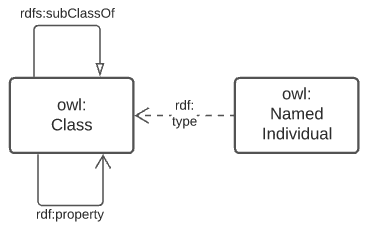
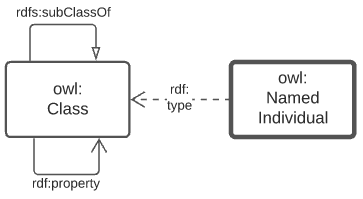
Deploying to gh-pages from  @ 5bbfaa98659f6f4108f445923ea16e4d9645a816 🚀

Changed region(s): [[0.0, 0.0302, 1.0, 0.9648], [0.1212, 0.5126, 0.2727, 0.603], [0.1515, 0.4221, 0.2424, 0.4824]]

diff --git a/supermodel.html b/supermodel.html
@@ -696,7 +696,10 @@ body.book #toc,body.book #preamble,body.book h1.sect0,body.book .sect1>h2{page-b
 <div class="sect2">
 <h3 id="_conventions">2.4. Conventions</h3>
 <div class="paragraph">
-<p>All code snippets in this document, used to show formal and machine-readable versions of concepts, are expressed using the Turtl RDF syntax <a href="#TTL">[TTL]</a>.</p>
+<p>All model diagrams use elements introduced in <a href="#fig-level0-key">Figure 1</a>. These elements are defined in the RDF, RDFS and OWL ontologies, see <a href="#OWL">[OWL]</a> for mode details.</p>
+</div>
+<div class="paragraph">
+<p>All code snippets in this document, used to show formal and machine-readable versions of concepts, are expressed using the Turtle RDF syntax <a href="#TTL">[TTL]</a>.</p>
 </div>
 </div>
 </div>
@@ -736,24 +739,89 @@ body.book #toc,body.book #preamble,body.book h1.sect0,body.book .sect1>h2{page-b
 <div class="sect2">
 <h3 id="_level_0_model_background">4.1. Level 0: Model Background</h3>
 <div class="paragraph">
-<p>This view of the model is a backgrounding one which describes the underpinning model mecahnics that it uses. The object modelling used is based on the <em>Web Ontology Language</em> <a href="#OWL">[OWL]</a> and its own underlying use of RDF &amp; RDFS <sup class="footnote">[<a id="_footnoteref_1" class="footnote" href="#_footnotedef_1" title="View footnote.">1</a>]</sup>. The <em>Provenance Ontology</em> <a href="#PROV">[PROV]</a> is used to model relations between things as a result of real-world processes.</p>
+<p>This view of the model is a backgrounding one which describes the underpinning model mecahnics that it uses. The object modelling used is based on the <em>Web Ontology Language</em> <a href="#OWL">[OWL]</a> and its own underlying use of RDF &amp; RDFS <sup class="footnote">[<a id="_footnoteref_1" class="footnote" href="#_footnotedef_1" title="View footnote.">1</a>]</sup>. The <em>Provenance Ontology</em> <a href="#PROV">[PROV]</a> is used to model real-world causal dependencies - provenance.</p>
 </div>
 <div class="sect3">
-<h4 id="_objects">4.1.1. Objects</h4>
+<h4 id="_diagram_key">4.1.1. Diagram Key</h4>
+<div class="paragraph">
+<p>The figure below is a key for the elements in all of the model diagrams in this document.</p>
+</div>
+<div id="fig-level0-key" class="imageblock">
+<div class="content">
+<img src="https://surroundaustralia.github.io/ga-supermodel/img/key.png" alt="key">
+</div>
+<div class="title">Figure 1. Diagram elements key</div>
+</div>
+</div>
+<div class="sect3">
+<h4 id="_object_modelling">4.1.2. Object Modelling</h4>
+<div class="paragraph">
+<p>The elements from the above subsection are shown in relation to one another in the figure below.</p>
+</div>
 <div id="fig-level0-owl" class="imageblock">
 <div class="content">
 <img src="https://surroundaustralia.github.io/ga-supermodel/img/level0-owl.png" alt="level0 owl">
 </div>
-<div class="title">Figure 1. OWL objects and their relations</div>
+<div class="title">Figure 2. OWL objects and their relations</div>
+</div>
+<div class="paragraph">
+<p>The elements shown above are identified with prefixed IRIs that correspond to entries in the <a href="#tbl-prefixes">Namespace Table</a>. A short explanation of the diagram key elements is:</p>
+</div>
+<div class="ulist">
+<ul>
+<li>
+<p><code>owl:Class</code> - represents any conceptual class of objects. Classes are expected to contain individuals - instances of the class - and the class, as a whole, may have realtions to other classes</p>
+</li>
+<li>
+<p><code>owl:NamedIndividual</code> - an individual of an <code>owl:class</code>. For example, for the class <em>ships</em>, an individual might be <em>Titanic</em></p>
+</li>
+<li>
+<p><code>rdf:property</code> - a relationship between classes, individuals, or any objects and Literals</p>
+</li>
+<li>
+<p><code>rdfs:subClassOf</code> -  an <code>rdf:property</code> indicating that the domain (from object) is a subclass of the range (to objects). An example is the class <em>student</em> which is a subclass of <em>person</em>: all <em>students</em> are clearly <em>persons</em> but not <em>vice versa</em></p>
+</li>
+<li>
+<p><code>rdf:type</code> - the property that related an <code>owl:NamedIndividual</code> to the <code>owl:Class</code> that it&#8217;s a member of</p>
+</li>
+<li>
+<p><code>Literal</code> - a simple literal data property, e.g. the string "Nicholas", or the number 42. Specific literal types are usually indicated when used</p>
+</li>
+</ul>
+</div>
+<div class="paragraph">
+<p>The remaining diagrams in this document use extensions to this basic model, for example <a href="#fig-level0-prov">Figure 3</a> uses colour-coded specialised forms of <code>owl:Class</code> (subclasses of it) and the relations in <a href="#fig-central-classes">Figure 5</a> are specialised forms of <code>rdf:property</code>.</p>
 </div>
 </div>
 <div class="sect3">
-<h4 id="_processes">4.1.2. Processes</h4>
+<h4 id="_provenance">4.1.3. Provenance</h4>
+<div class="paragraph">
+<p>General provenance/lineage information about anything - a rock sample, a dataset, a term in a vocabulary etc. - is described using the <em>Provenance Ontology</em> <a href="#PROV">[PROV]</a> which views <em>everything</em> in the world as being of one or more types in <a href="#fig-level0-prov">Figure 3</a>.</p>
+</div>
 <div id="fig-level0-prov" class="imageblock">
 <div class="content">
 <img src="https://surroundaustralia.github.io/ga-supermodel/img/level0-prov.png" alt="level0 prov">
 </div>
-<div class="title">Figure 2. PROV classes and thier main relations</div>
+<div class="title">Figure 3. PROV main classes and main relations</div>
+</div>
+<div class="paragraph">
+<p>According to PROV, all things are either a:</p>
+</div>
+<div class="ulist">
+<ul>
+<li>
+<p><code>prov:Entity</code> - a physical, digital, conceptual, or other kind of thing with some fixed aspects</p>
+</li>
+<li>
+<p><code>prov:Agent</code> - something that bears some form of responsibility for an activity taking place, for the existence of an entity, or for another agent&#8217;s activity</p>
+</li>
+<li>
+<p><code>prov:Activity</code> - something that occurs over a period of time and acts upon or with entities</p>
+</li>
+</ul>
+</div>
+<div class="paragraph">
+<p>Entities are commonly created by Agents through Activities and all of the people and organisations related to objects in the model are Agents, e.g. the creators of a dataset.</p>
 </div>
 </div>
 </div>
@@ -788,7 +856,7 @@ body.book #toc,body.book #preamble,body.book h1.sect0,body.book .sect1>h2{page-b
 <div class="content">
 <img src="https://surroundaustralia.github.io/ga-supermodel/img/data-domains.png" alt="data domains">
 </div>
-<div class="title">Figure 3. Top-level view of the GA Supermodel showing Data Domains</div>
+<div class="title">Figure 4. Top-level view of the GA Supermodel showing Data Domains</div>
 </div>
 <div class="paragraph">
 <p>These Data Domains are defined formally in a simple SKOS vocabulary within this model&#8217;s set of machine-readable resources. The vocabulary may be access ddirectly at <a href="http://pid.geoscience.gov.au/def/sm/data-domains" class="bare">http://pid.geoscience.gov.au/def/sm/data-domains</a>.</p>
@@ -827,7 +895,7 @@ This supermodel&#8217;s origins are in GA&#8217;s geology and spatial data work 
 <div class="content">
 <img src="https://surroundaustralia.github.io/ga-supermodel/img/central-classes.png" alt="central classes">
 </div>
-<div class="title">Figure 4. Next level view of the GA Supermodel showing Central Classes</div>
+<div class="title">Figure 5. Next level view of the GA Supermodel showing Central Classes</div>
 </div>
 <div class="paragraph">
 <p>The Central Classes of each of the Data Domains are well-used classes from well-known models. For example, the Central Class of <em>Organisation &amp; People</em> is <a href="#PROV">[PROV]</a>'s <code>Agent</code> class which is one of the three main classes of thing in PROV and used every time PROV is used to represent causal agents. PROV is used extensively to indicate how things - data, resources, systems - come to be.</p>
@@ -948,7 +1016,7 @@ This supermodel&#8217;s origins are in GA&#8217;s geology and spatial data work 
 <div class="content">
 <img src="https://surroundaustralia.github.io/ga-supermodel/img/domain-classes-data-cataloguing.png" alt="domain classes data cataloguing">
 </div>
-<div class="title">Figure 5. Domain Main Classes for Data Cataloguing</div>
+<div class="title">Figure 6. Domain Main Classes for Data Cataloguing</div>
 </div>
 <div class="paragraph">
 <p>This Data Domain&#8217;s main classes are essentially the DCAT2 data model <a href="#DCAT">[DCAT]</a> with a slight profiling: <code>dcterms:hasPart</code> should be used to indicate elements within catalogues (e.g. <code>dcat:Dataset</code> and other things within a <code>dcat:Catalog</code>) rather than the specialised properties of <code>dcat:dataset</code> because GA expects to catalogue many types of things and the type of the thing should be given by the thing, not the catalogue property used to indicate it.</p>
@@ -963,7 +1031,7 @@ This supermodel&#8217;s origins are in GA&#8217;s geology and spatial data work 
 <div class="content">
 <img src="https://surroundaustralia.github.io/ga-supermodel/img/domain-classes-organisations-people.png" alt="domain classes organisations people">
 </div>
-<div class="title">Figure 6. Domain Main Classes for Organisations &amp; People</div>
+<div class="title">Figure 7. Domain Main Classes for Organisations &amp; People</div>
 </div>
 <div class="paragraph">
 <p>This Data Domain&#8217;s main classes are centered on <a href="#PROV">[PROV]</a>'s <code>prof:Agent</code> class but specific types of agent - <em>person</em> &amp; <em>organisation</em> are defined using schema.org <a href="#SDO">[SDO]</a>, the general-purpose ontology provisioned by Google, Microsoft &amp; Yahoo for the description of web page data.</p>
@@ -981,7 +1049,7 @@ This supermodel&#8217;s origins are in GA&#8217;s geology and spatial data work 
 <div class="content">
 <img src="https://surroundaustralia.github.io/ga-supermodel/img/domain-classes-sampling.png" alt="domain classes sampling">
 </div>
-<div class="title">Figure 7. Domain Main Classes for Sampling</div>
+<div class="title">Figure 8. Domain Main Classes for Sampling</div>
 </div>
 <div class="paragraph">
 <p>This Data Domain&#8217;s main classes are taken directly from the <em>Sensor, Observation, Sample, and Actuator Ontology</em> (SOSA) which is part of the <em>Semanic Sensor Networks Ontology</em> <a href="#SSN">[SSN]</a>.</p>
@@ -1018,7 +1086,7 @@ This supermodel&#8217;s origins are in GA&#8217;s geology and spatial data work 
 <div class="content">
 <img src="https://surroundaustralia.github.io/ga-supermodel/img/domain-classes-spatiality.png" alt="domain classes spatiality">
 </div>
-<div class="title">Figure 8. Domain Main Classes for Spatiality</div>
+<div class="title">Figure 9. Domain Main Classes for Spatiality</div>
 </div>
 <div class="paragraph">
 <p>This Data Domain&#8217;s main classes are taken directly from GeoSPARQL 1.1 <a href="#GEO">[GEO]</a> which is used extensively in GA already. GeoSPARQL&#8217;s main purposes are to relate things (<code>geo:Feature</code>) to their spatial projections - their geometries - and to relate things to one another - topological relations between features, such as <em>within</em>, <em>touches</em>, <em>disjoint</em> etc.</p>
@@ -1036,7 +1104,7 @@ This supermodel&#8217;s origins are in GA&#8217;s geology and spatial data work 
 <div class="content">
 <img src="https://surroundaustralia.github.io/ga-supermodel/img/domain-classes-theming.png" alt="domain classes theming">
 </div>
-<div class="title">Figure 9. Domain Main Classes for Theming</div>
+<div class="title">Figure 10. Domain Main Classes for Theming</div>
 </div>
 <div class="paragraph">
 <p>This Data Domain&#8217;s main classes are taken from <a href="#SKOS">[SKOS]</a> and their expected/required properties and relations are formally defined in <em>VocPub</em>, a "vocabulary publication profile of SKOS" <a href="#VOCPUB">[VOCPUB]</a>. VocPub just mandates certain vocabulary metadata and relations between elements in vocabularies. Conformance of vocabularies to VocPub is also easily testable using the profile&#8217;s validator abd online tooling that support it <sup class="footnote">[<a id="_footnoteref_4" class="footnote" href="#_footnotedef_4" title="View footnote.">4</a>]</sup>.</p>
@@ -1162,7 +1230,7 @@ This supermodel&#8217;s origins are in GA&#8217;s geology and spatial data work 
 </div>
 <div id="footer">
 <div id="footer-text">
-Last updated 2022-01-14 07:34:06 UTC
+Last updated 2022-01-14 10:23:31 UTC
 </div>
 </div>
 </body>

diff --git a/index.html b/index.html
@@ -511,7 +511,7 @@ SURROUND Australia Pty Ltd.<br>
 </div>
 <div id="footer">
 <div id="footer-text">
-Last updated 2022-01-14 07:34:06 UTC
+Last updated 2022-01-14 10:23:31 UTC
 </div>
 </div>
 </body>
